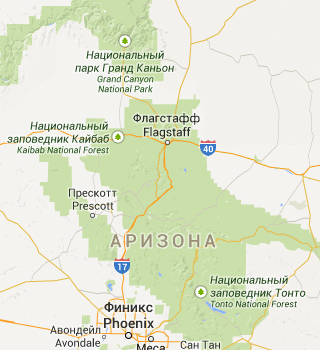
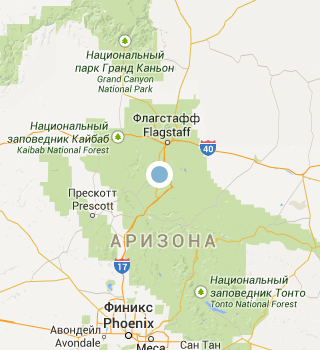
Загрузил и отретинил изображения на главной и фоны

Changed region(s): [[0.4375, 0.4571, 0.5625, 0.5429]]

diff --git a/source/index.html b/source/index.html
@@ -12,7 +12,11 @@
     <header class="header header--no-js">
       <nav>
         <a class="header__logo">
-          <img class="header__logo-img" src="img/logo.svg" alt="Sedona">
+          <picture>
+            <source media="(min-width: 1200px)" srcset="img/logo-desktop.svg">
+            <source media="(min-width: 768px)" srcset="img/logo-tablet.svg">
+            <img class="header__logo-img" width="101" height="84" src="img/logo.svg" alt="Sedona">
+          </picture>
         </a>
         <button class="header__toggle">
           <span class="visually-hidden">Открыть/закрыть меню</span>
@@ -55,17 +59,28 @@
           <li class="reasons__list-item reason reason--imaged reason--imaged-right">
             <div class="reason__inner">
               <h3 class="reason__title">
-                Настоящий<br class="reason__br-desktop">городок
+                Настоящий<br class="reason__br-desktop"> городок
               </h3>
               <p class="reason__text">
                 Седона не аттракцион для туристов, там течет своя жизнь
               </p>
             </div>
 
-            <!-- <img  class="reason__photo"
-              src="https://via.placeholder.com/320x260" alt="Дом в Седоне"> -->
-            <img  class="reason__photo"
-              src="img/example.jpg" width="320" height="260" alt="Дом в Седоне">
+            <picture>
+              <source media="(min-width: 1200px)"
+                srcset=
+                  "img/photo-city-desktop.jpg 1x,
+                  img/photo-city-desktop@2x.jpg 2x">
+              <source media="(min-width: 768px)"
+                srcset=
+                  "img/photo-city-tablet.jpg 1x,
+                  img/photo-city-tablet@2x.jpg 2x">
+              <img  class="reason__photo"
+                width="320" height="260" alt="Дом в Седоне"
+                srcset=
+                  "img/photo-city.jpg 1x,
+                  img/photo-city@2x.jpg 2x">
+            </picture>
 
             <ul class="reasons__sublist reason__sublist subreasons">
               <li class="subreasons__item subreasons__item--house">
@@ -101,12 +116,21 @@
                 Если вы осмелитесь, конечно
               </p>
             </div>
-            <!-- <img  class="reason__photo"
-              src="https://via.placeholder.com/320x260"
-              alt="Песчаная гора в виде моста - Мост Дьявола"> -->
-            <img  class="reason__photo"
-              src="img/example.jpg"
-              alt="Песчаная гора в виде моста - Мост Дьявола">
+            <picture>
+              <source media="(min-width: 1200px)"
+                srcset=
+                  "img/photo-bridge-desktop.jpg 1x,
+                  img/photo-bridge-desktop@2x.jpg 2x">
+              <source media="(min-width: 768px)"
+                srcset=
+                  "img/photo-bridge-tablet.jpg 1x,
+                  img/photo-bridge-tablet@2x.jpg 2x">
+              <img  class="reason__photo"
+                width="320" height="260" alt="Дом в Седоне"
+                srcset=
+                  "img/photo-bridge.jpg 1x,
+                  img/photo-bridge@2x.jpg 2x">
+            </picture>
           </li>
           <li class="reasons__list-item reason">
             <h3 class="reason__title">
@@ -151,7 +175,6 @@
 
       <section class="map">
         <h2 class="visually-hidden">Карта</h2>
-        <!-- Тут будет интерактивная карта -->
         <div class="map__frame" id="map"></div>
       </section>
     </main>

diff --git a/source/less/blocks/main.less b/source/less/blocks/main.less
@@ -2,24 +2,31 @@
   padding-top: 157.9px;
 
   background-image:
-    url("/img/intro-triangle.svg"),
-    url("/img/text-sedona.svg"),
-    url("/img/back.jpg"); // ну пусть пока будет эта картинка
+    url("../img/intro-triangle.svg"),
+    url("../img/text-sedona.svg"),
+    url("../img/back-desktop.jpg");
   background-position:
     center 101px,
     center 51px,
-    center -180px;
+    center -231px;
   background-size:
     1200px 57px,
     229px 39px,
-    900px auto;
+    902px auto;
   background-repeat: no-repeat;
+
+  @media (min-resolution: 2dppx) {
+    background-image:
+      url("../img/intro-triangle.svg"),
+      url("../img/text-sedona.svg"),
+      url("../img/back-desktop@2x.jpg");
+  }
 
   @media (min-width: @tablet-width) {
     padding-top: 291px;
 
     background-position:
-      center 233.5px, // pixel perfect, будь он неладен
+      center 233.5px, // pixel perfect
       center 95px,
       center -228px;
     background-size:
@@ -46,9 +53,9 @@
     padding-top: 389px;
 
     background-image:
-      url("/img/intro-triangle.svg"),
-      url("/img/text-index.svg"),
-      url("/img/back.jpg"); // ну пусть пока будет эта картинка
+      url("../img/intro-triangle.svg"),
+      url("../img/text-index.svg"),
+      url("../img/back-mobile.jpg");
     background-position:
       center 333px,
       center 90px,
@@ -56,27 +63,38 @@
     background-size:
       1200px 56px,
       282px 214px,
-      900px auto;
+      320px auto;
     background-repeat: no-repeat;
+
+    @media (min-resolution: 2dppx) {
+      background-image:
+        url("../img/intro-triangle.svg"),
+        url("../img/text-index.svg"),
+        url("../img/back-mobile@2x.jpg");
+    }
 
     @media (min-width: @tablet-width) {
       padding-top: 518px;
 
+      background-image:
+        url("../img/intro-triangle.svg"),
+        url("../img/text-index.svg"),
+        url("../img/back-desktop.jpg");
       background-position:
-        center 462px,
+        center 461.2px, // pixel pefect
         center 77px,
         center top;
       background-size:
         1200px 57px,
         460px 350px,
         1200px 518px;
-    }
 
-    @media (min-width: @desktop-width) {
-      background-size:
-        1200px 57px,
-        460px 350px,
-        1200px 518px;
+      @media (min-resolution: 2dppx) {
+        background-image:
+          url("../img/intro-triangle.svg"),
+          url("../img/text-index.svg"),
+          url("../img/back-desktop@2x.jpg");
+      }
     }
   }
 }

diff --git a/source/less/blocks/reason.less b/source/less/blocks/reason.less
@@ -29,6 +29,10 @@
         grid-column-end: 4;
       }
 
+      .reason__photo {
+        width: 200%;
+      }
+
       &-right {
         .reason__photo {
           grid-column-start: 2;
@@ -38,8 +42,16 @@
 
       &-left {
         .reason__photo {
+          order: -1;
           grid-column-start: 1;
           grid-column-end: 3;
+          grid-row-start: 1;
+          grid-row-end: 2;
+        }
+
+        .reason__inner {
+          grid-column-start: 3;
+          grid-column-end: 4;
           grid-row-start: 1;
           grid-row-end: 2;
         }
@@ -57,11 +69,19 @@
 .reason--imaged-right {
   padding-top: 53px; // Белая стрелка-треуголник сверху
 
+  .reason__text {
+    margin: 0 -10px; // pixel perfect
+  }
+
   @media (min-width: @tablet-width) {
     padding-top: 0;
   }
 
   @media (min-width: @desktop-width) {
+    .reason__text {
+      margin: 0;
+    }
+
     .reason__inner {
       padding-top: 47px; // pixel perfect
     }
@@ -173,6 +193,14 @@
   display: none;
 
   @media (min-width: @tablet-width) {
+    display: inline;
+  }
+}
+
+.reason__br-desktop {
+  display: none;
+
+  @media (min-width: @desktop-width) {
     display: inline;
   }
 }

diff --git a/source/less/blocks/map.less b/source/less/blocks/map.less
@@ -2,9 +2,30 @@
   min-width: 320px;
   height: 350px;
   background-color: greenyellow;
-  background-image: url("/img/map-mobile.png");
+  background-image: url("../img/map-mobile.png");
   background-repeat: no-repeat;
   background-position: center;
+  background-size: cover;
+
+  @media (min-resolution: 2dppx) {
+    background-image: url("../img/map-mobile@2x.png");
+  }
+
+  @media (min-width: @tablet-width) {
+    background-image: url("../img/map-tablet.png");
+
+    @media (min-resolution: 2dppx) {
+      background-image: url("../img/map-tablet@2x.png");
+    }
+  }
+
+  @media (min-width: @desktop-width) {
+    background-image: url("../img/map-desktop.png");
+
+    @media (min-resolution: 2dppx) {
+      background-image: url("../img/map-desktop@2x.png");
+    }
+  }
 }
 
 .map__frame {

diff --git a/source/catalog.html b/source/catalog.html
@@ -12,7 +12,11 @@
     <header class="header header--no-js">
       <nav>
         <a class="header__logo" href="index.html">
-          <img class="header__logo-img" src="img/logo.svg" alt="Sedona">
+          <picture>
+            <source media="(min-width: 1200px)" srcset="img/logo-desktop.svg">
+            <source media="(min-width: 768px)" srcset="img/logo-tablet.svg">
+            <img class="header__logo-img" width="101" height="84" src="img/logo.svg" alt="Sedona">
+          </picture>
         </a>
         <button class="header__toggle">
           <span class="visually-hidden">Открыть/закрыть меню</span>

diff --git a/source/form.html b/source/form.html
@@ -12,7 +12,11 @@
     <header class="header header--no-js">
       <nav>
         <a class="header__logo" href="index.html">
-          <img class="header__logo-img" src="img/logo.svg" alt="Sedona">
+          <picture>
+            <source media="(min-width: 1200px)" srcset="img/logo-desktop.svg">
+            <source media="(min-width: 768px)" srcset="img/logo-tablet.svg">
+            <img class="header__logo-img" width="101" height="84" src="img/logo.svg" alt="Sedona">
+          </picture>
         </a>
         <button class="header__toggle">
           <span class="visually-hidden">Открыть/закрыть меню</span>

diff --git a/source/less/blocks/header.less b/source/less/blocks/header.less
@@ -24,10 +24,8 @@
 
 .header__logo {
   width: 101px;
-  // height: 84px;
-  // Нужен другой способ, пока без него логотип голый и без шапки
-  height: 56px;
-  outline: 1px solid green;
+  height: 84px;
+  margin-bottom: -32px;
 
   @media (min-width: @tablet-width) {
     position: absolute;
@@ -38,6 +36,8 @@
     height: 96px;
 
     .header__logo-img {
+      width: 186px;
+      height: 96px;
       display: flex;
       margin: 0 auto;
     }

diff --git a/source/less/blocks/index-form.less b/source/less/blocks/index-form.less
@@ -1,10 +1,11 @@
 .index-form {
-  padding: 33px 20px 59px;
+  padding: 33px 20px 50px;
   text-align: center;
   text-transform: uppercase;
 
   @media (min-width: @tablet-width) {
     padding-top: 59px;
+    padding-bottom: 59px;
   }
 
   @media (min-width: @desktop-width) {
